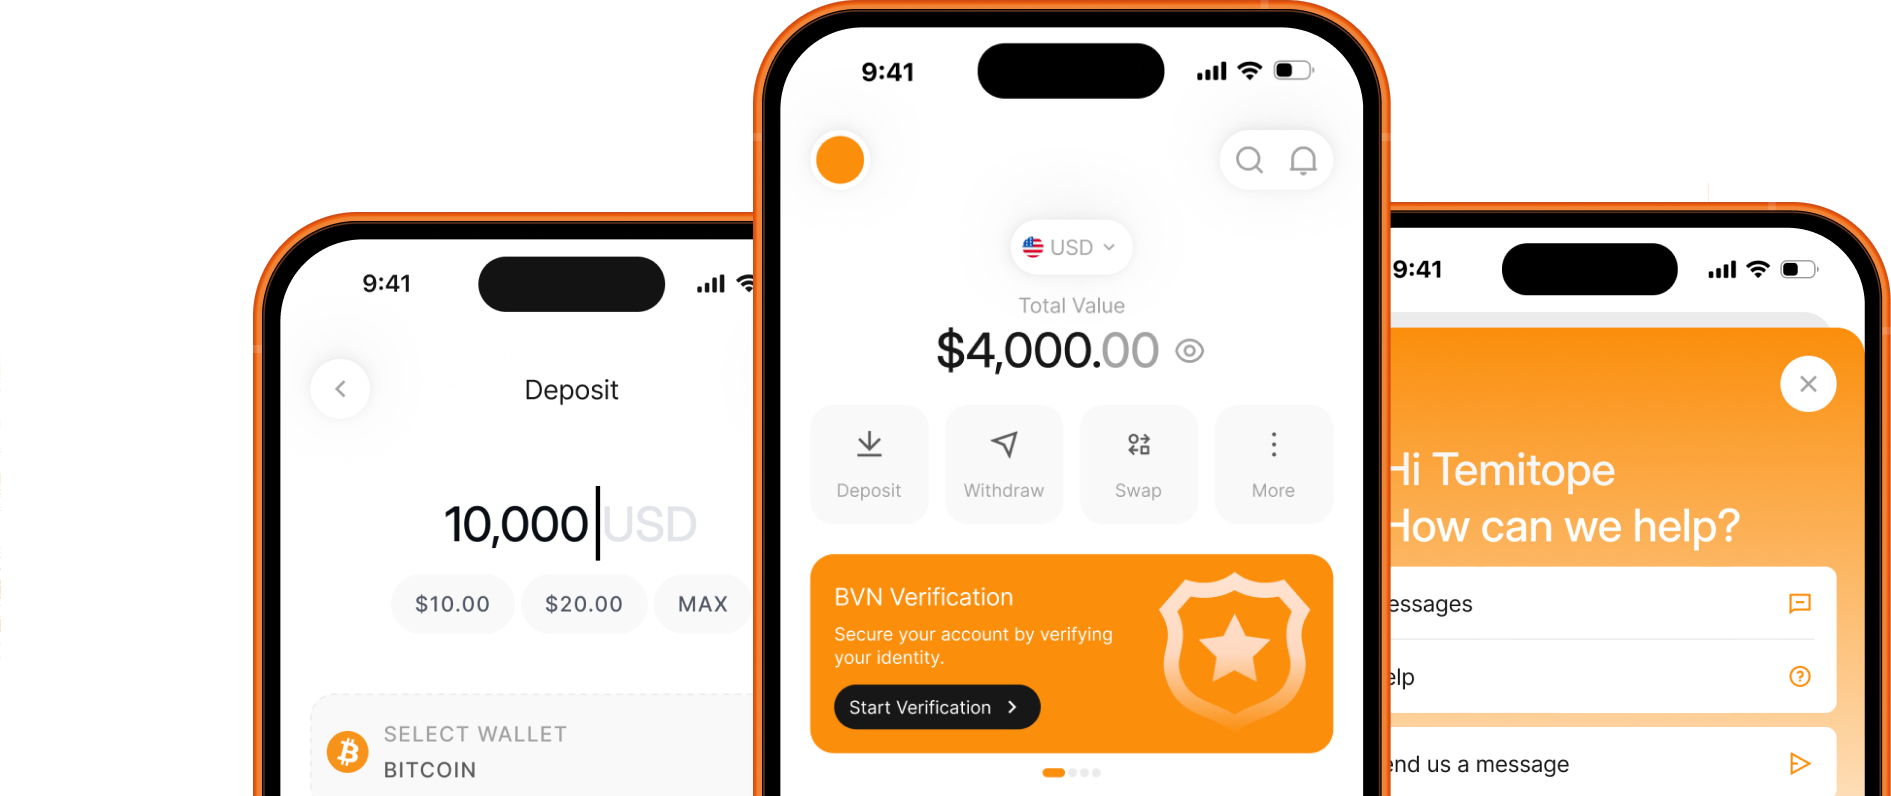
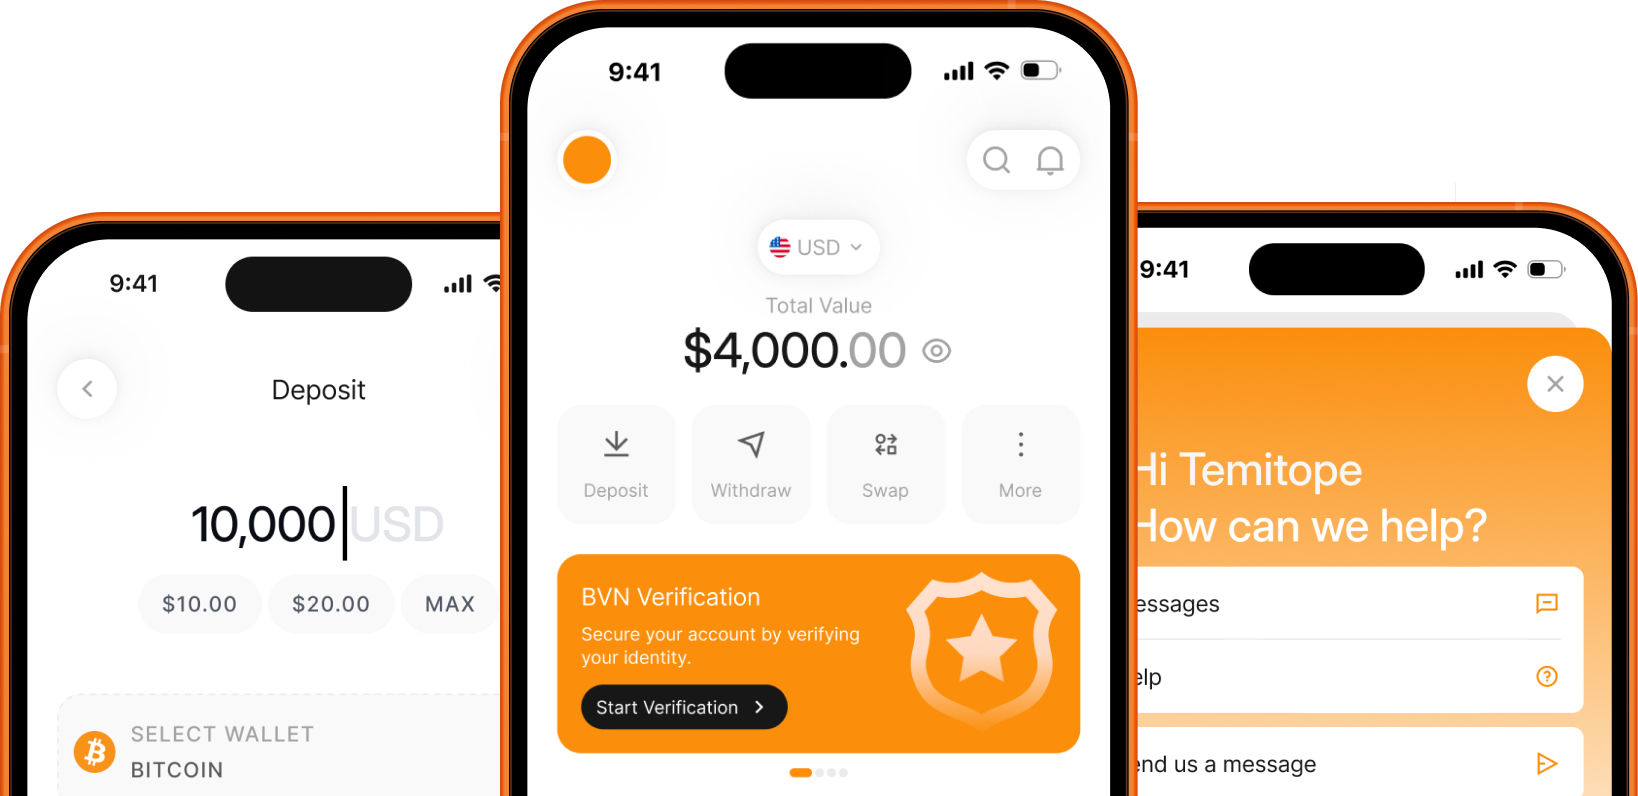
feat: update BannerSection with new image and responsive adjustments; enhance HeroSection button styles; add testimonials photos; implement overflow-x clipping in global styles

diff --git a/web/app/components/HeroSection.tsx b/web/app/components/HeroSection.tsx
@@ -57,10 +57,13 @@ export function HeroSection() {
               <br className="hidden md:block" /> cryptocurrencies with more possibilities
             </p>
             <div className="flex flex-col sm:flex-row gap-4 pt-2 w-full sm:w-auto">
-              <button className="w-full sm:w-auto btn-dark hover:btn-dark-hover text-white px-10 py-3.5 rounded-full text-p-md font-medium transition-all">
+              {/* Both buttons carry a border and identical padding so they end up the
+                  same height — the outlined one used to be 6px taller (py-4 vs
+                  py-3.5, plus its 1px border on each edge). */}
+              <button className="w-full sm:w-auto btn-dark hover:btn-dark-hover text-white border border-transparent px-10 py-3.5 rounded-full text-p-md font-medium transition-all">
                 Get Started
               </button>
-              <button className="w-full sm:w-auto bg-white text-black border border-gray-200 px-10 py-4 rounded-full text-p-md font-medium hover:bg-gray-50 transition-all shadow-sm">
+              <button className="w-full sm:w-auto bg-white text-black border border-gray-200 px-10 py-3.5 rounded-full text-p-md font-medium hover:bg-gray-50 transition-all shadow-sm">
                 Download App
               </button>
             </div>
@@ -74,7 +77,7 @@ export function HeroSection() {
               <Image
                 src="/hero/phones.png"
                 alt="Apex Network mobile app"
-                width={1891}
+                width={1638}
                 height={796}
                 priority
                 unoptimized

diff --git a/web/app/components/BannerSection.tsx b/web/app/components/BannerSection.tsx
@@ -69,13 +69,21 @@ export function BannerSection() {
             </ScrollFadeIn>
 
             <ScrollFadeIn delay={0.15}>
-              <div className="relative hidden lg:block h-[400px]">
-                <div className="absolute inset-x-0 bottom-0 translate-y-10">
+              {/* Visible at every width — the phones are the point of the banner.
+                  Below lg the image just flows, so the column is exactly as tall as
+                  the artwork and no dead space opens up above it. From lg it is
+                  pinned to the bottom of a fixed-height column as before. Either
+                  way the 40px nudge lets the band's clip-path crop the handsets. */}
+              <div className="relative lg:h-[400px]">
+                <div className="lg:absolute inset-x-0 bottom-0 translate-y-10">
+                  {/* Banner-specific crop: tighter than the hero's phones.png, so the
+                      screens stay readable at this size. Cut out of a white-background
+                      export, hence the alpha — and hence `unoptimized`. */}
                   <Image
-                    src="/hero/phones.png"
+                    src="/banner/phones-banner.png"
                     alt="Apex Network mobile app"
-                    width={1891}
-                    height={796}
+                    width={668}
+                    height={354}
                     unoptimized
                     className="w-full h-auto object-contain"
                   />

diff --git a/web/app/components/TestimonialsSection.tsx b/web/app/components/TestimonialsSection.tsx
@@ -18,6 +18,7 @@ type Testimonial = {
 const testimonials: Testimonial[] = [
   {
     name: "John",
+    photo: "/testimonials/john.webp",
     location: "Lagos, Nigeria",
     quote:
       "I can move money, pay bills, and manage everything from one app. It just makes things simpler.",
@@ -25,11 +26,13 @@ const testimonials: Testimonial[] = [
   },
   {
     name: "Bolatito",
+    photo: "/testimonials/bolatito.png",
     location: "Lagos, Nigeria",
     gradient: "linear-gradient(145deg, #C9A227 0%, #6B5410 100%)",
   },
   {
     name: "Christopher",
+    photo: "/testimonials/christopher.webp",
     location: "Nairobi, Kenya",
     gradient: "linear-gradient(145deg, #8B4513 0%, #3A1D08 100%)",
   },
@@ -63,6 +66,8 @@ function TestimonialCard({
           src={testimonial.photo}
           alt={testimonial.name}
           fill
+          unoptimized
+          sizes="(min-width: 1024px) 520px, (min-width: 768px) 420px, 72vw"
           className="object-cover object-top"
         />
       )}

diff --git a/web/app/components/Navigation.tsx b/web/app/components/Navigation.tsx
@@ -19,8 +19,14 @@ export function Navigation() {
 
   return (
     <nav
+      // The bar is transparent over the hero, but an OPEN mobile menu needs a
+      // surface of its own — otherwise the panel sits directly on the hero and the
+      // links are unreadable. Opening the menu gives it the same treatment that
+      // scrolling does.
       className={`fixed w-full top-0 z-50 transition-all duration-300 ${
-        isScrolled ? "bg-white/95 shadow-sm backdrop-blur-md" : "bg-transparent"
+        isScrolled || isOpen
+          ? "bg-white/95 shadow-sm backdrop-blur-md"
+          : "bg-transparent"
       }`}
     >
       <div className="page-container py-5">

diff --git a/web/app/globals.css b/web/app/globals.css
@@ -188,6 +188,16 @@ body {
 }
 
 /* Hide the horizontal scrollbar on the blog carousel track */
+/* Nothing may drag the page sideways. `clip` rather than `hidden` on purpose:
+   hidden would turn these into scroll containers and force the other axis to
+   auto, which breaks position:sticky further down the tree. This is a guard,
+   not a licence to overflow — it is deliberately NOT on a `*` selector, since
+   unlayered rules beat Tailwind's layered utilities. */
+html,
+body {
+  overflow-x: clip;
+}
+
 .no-scrollbar {
   scrollbar-width: none;
 }
